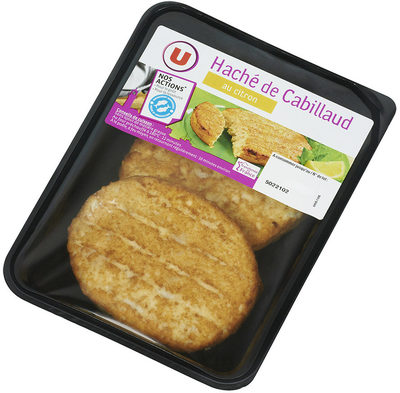
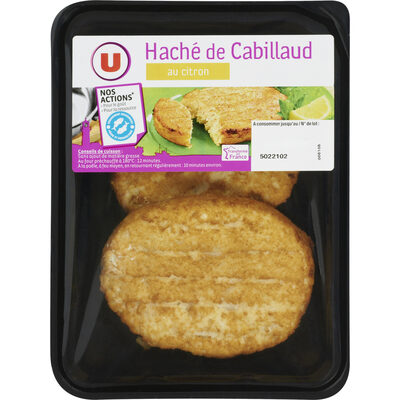
feat(catalog): replace in-store photos of U products with official packshots
- Check every U product photo on Open Food Facts: 358 already show the
  official Système U photo, most others are clean packshots too
- Replace 22 photos taken in store (hand, shelf, back of pack) with the
  official packshot, picked one by one
- Add prisma/replace-photos.ts to apply data/photo-replacements.json;
  the database picture field is only updated with --db

diff --git a/trinity/prisma/replace-photos.ts b/trinity/prisma/replace-photos.ts
@@ -1,0 +1,100 @@
+// Remplace des photos produits par la photo officielle du fabricant listée dans
+// data/photo-replacements.json ([{ barCode, image_url }]) :
+// - télécharge la photo dans public/products/<code-barres>.jpg (en écrasant l'ancienne)
+// - met à jour l'URL dans data/complete_products.json et data/off-enrichment.json
+// - avec --db, met aussi à jour le champ picture en base (secours quand la photo locale manque)
+//
+// Usage :
+//   ./node_modules/.bin/ts-node --compiler-options '{"module":"CommonJS","moduleResolution":"node","target":"ES2020"}' prisma/replace-photos.ts --dry-run
+//   ./node_modules/.bin/ts-node --compiler-options '{"module":"CommonJS","moduleResolution":"node","target":"ES2020"}' prisma/replace-photos.ts [--db]
+
+import { PrismaClient } from "@prisma/client";
+import { readFileSync, writeFileSync } from "node:fs";
+import { join } from "node:path";
+
+const DRY_RUN = process.argv.includes("--dry-run");
+const UPDATE_DB = process.argv.includes("--db");
+const root = join(__dirname, "..");
+const replacementsFile = join(root, "data/photo-replacements.json");
+const productsFile = join(root, "data/complete_products.json");
+const enrichmentFile = join(root, "data/off-enrichment.json");
+const imagesDir = join(root, "public/products");
+
+const WORKERS = 4;
+const USER_AGENT = "TrinityShop/1.0 (Epitech school project)";
+const sleep = (ms: number) => new Promise((resolve) => setTimeout(resolve, ms));
+
+async function download(url: string) {
+  for (let attempt = 1; attempt <= 4; attempt++) {
+    const res = await fetch(url, { headers: { "User-Agent": USER_AGENT }, signal: AbortSignal.timeout(30000) }).catch(
+      () => null
+    );
+    if (res?.ok) {
+      const buffer = Buffer.from(await res.arrayBuffer());
+      // JPEG valide uniquement
+      if (buffer.length > 3 && buffer[0] === 0xff && buffer[1] === 0xd8 && buffer[2] === 0xff) return buffer;
+      return null;
+    }
+    if (res?.status === 404) return null;
+    await sleep(attempt * 5000);
+  }
+  return null;
+}
+
+async function main() {
+  const replacements: { barCode: string; image_url: string }[] = JSON.parse(readFileSync(replacementsFile, "utf8"));
+  console.log(`${replacements.length} photos à remplacer`);
+  if (DRY_RUN) return;
+
+  // 1. Photos, quelques-unes à la fois
+  const done: typeof replacements = [];
+  const queue = [...replacements];
+  await Promise.all(
+    Array.from({ length: WORKERS }, async () => {
+      for (let item = queue.shift(); item; item = queue.shift()) {
+        const buffer = await download(item.image_url);
+        if (buffer) {
+          writeFileSync(join(imagesDir, `${item.barCode}.jpg`), buffer);
+          done.push(item);
+        } else {
+          console.warn(`Photo indisponible : ${item.barCode}`);
+        }
+        if ((done.length + 1) % 50 === 0) console.log(`Photos : ${done.length}`);
+      }
+    })
+  );
+
+  // 2. URL de la photo dans les données du seed, puis en base si demandé
+  const urls = new Map(done.map((item) => [item.barCode, item.image_url]));
+  const catalog: { barCode: string; image_url?: string }[] = JSON.parse(readFileSync(productsFile, "utf8"));
+  for (const product of catalog) {
+    const url = urls.get(String(product.barCode));
+    if (url) product.image_url = url;
+  }
+  writeFileSync(productsFile, JSON.stringify(catalog, null, 4) + "\n");
+
+  const enrichment: Record<string, { image?: string | null }> = JSON.parse(readFileSync(enrichmentFile, "utf8"));
+  for (const [code, url] of urls) enrichment[code] = { ...enrichment[code], image: url };
+  writeFileSync(enrichmentFile, JSON.stringify(enrichment, null, 2) + "\n");
+
+  if (!UPDATE_DB) {
+    console.log(`${done.length} photos remplacées (base non modifiée, relancer avec --db pour le champ picture).`);
+    return;
+  }
+  const prisma = new PrismaClient();
+  const items = [...urls.entries()];
+  for (let i = 0; i < items.length; i += 50) {
+    await prisma.$transaction(
+      items
+        .slice(i, i + 50)
+        .map(([code, url]) => prisma.product.updateMany({ where: { barCode: BigInt(code) }, data: { picture: url } }))
+    );
+  }
+  await prisma.$disconnect();
+  console.log(`${done.length} photos remplacées.`);
+}
+
+main().catch((error) => {
+  console.error(error);
+  process.exit(1);
+});
